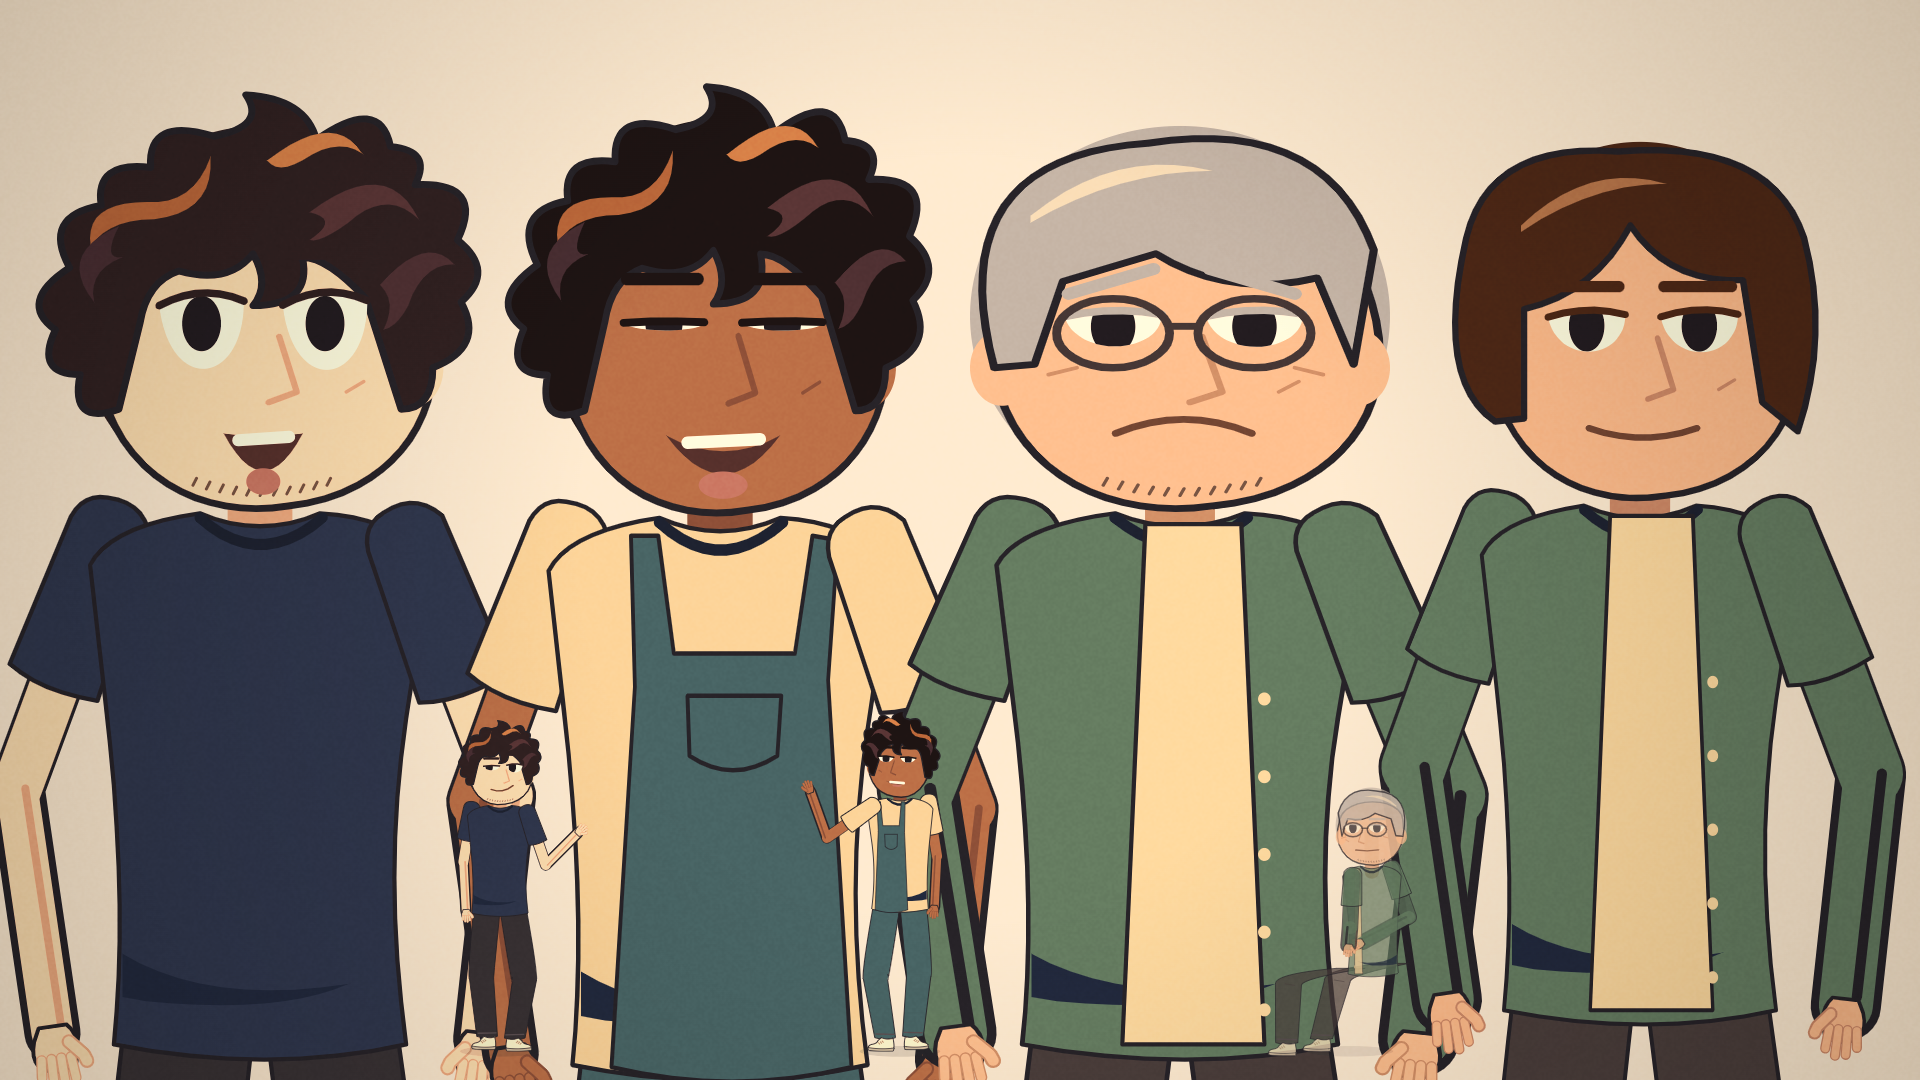
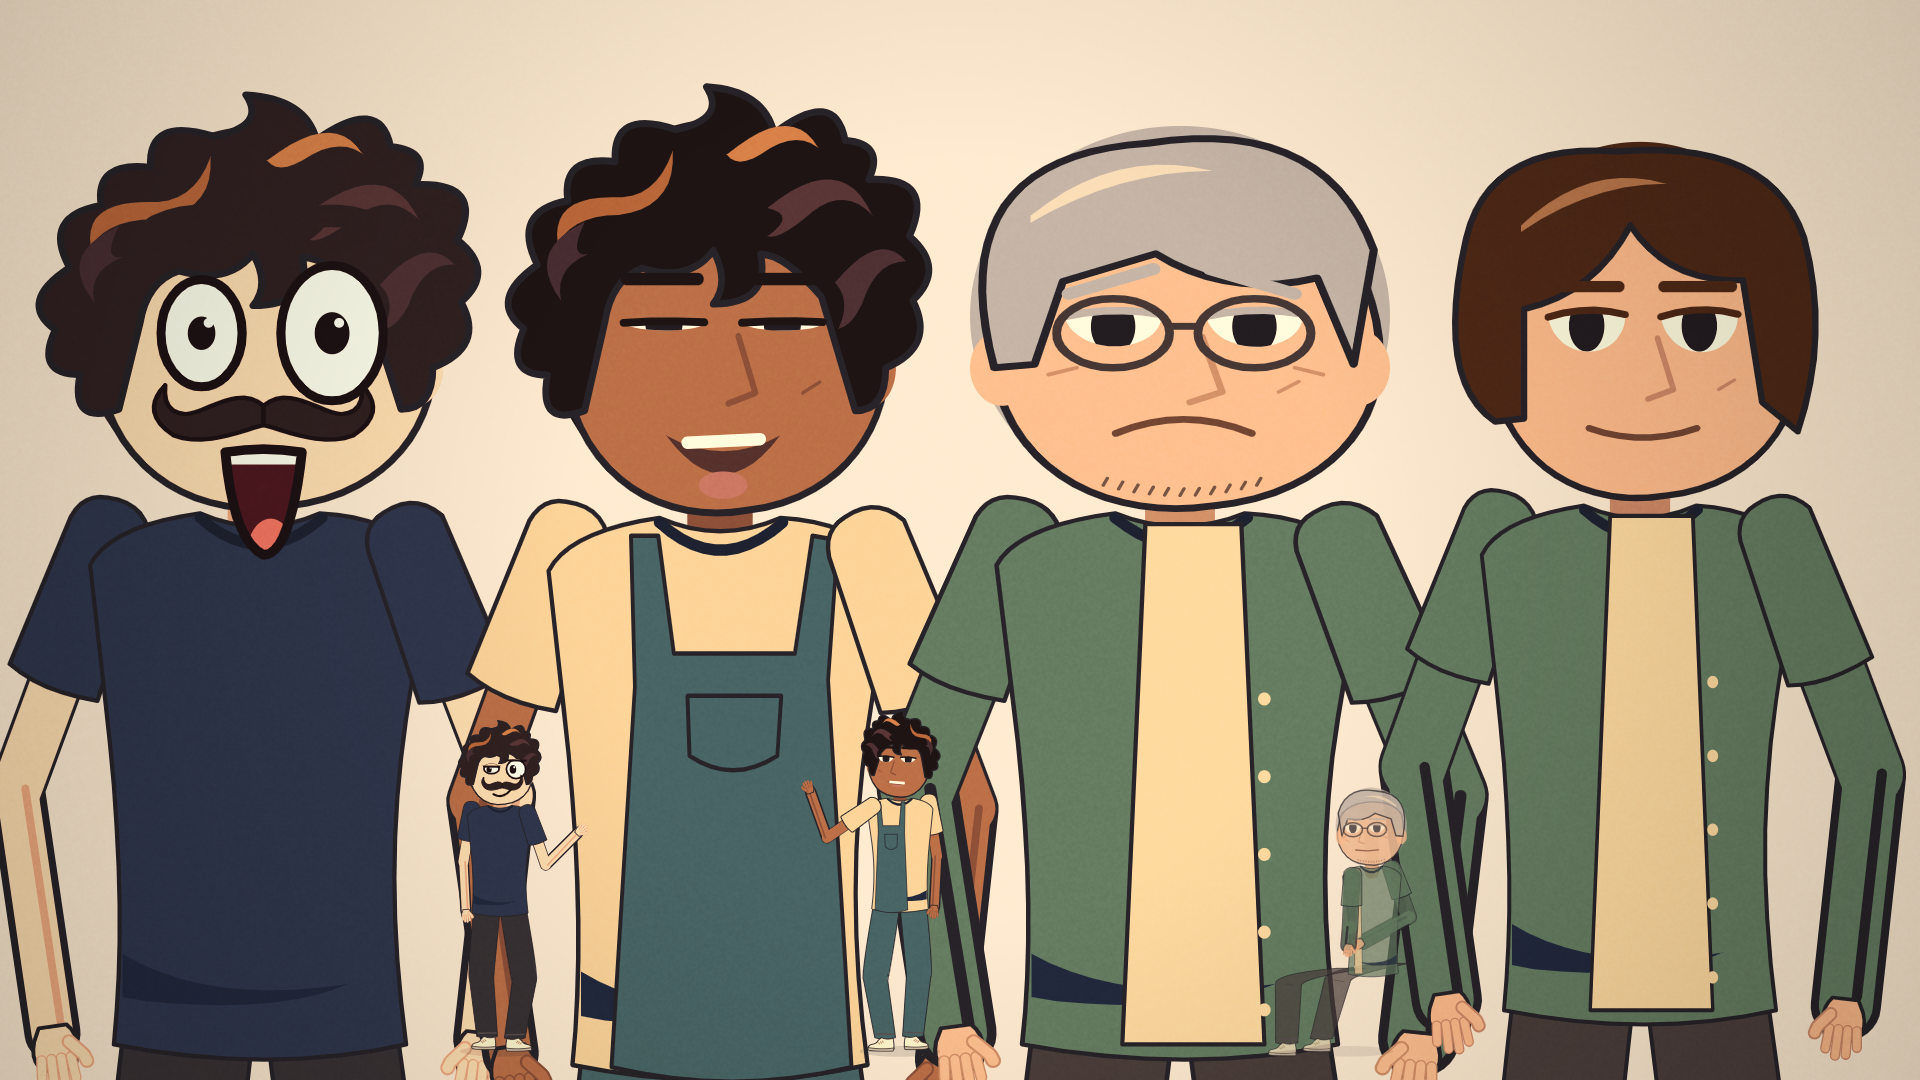
Hero uses the MOOCH meme face (user pick)

diff --git a/growkaz/engine/toon2d.js b/growkaz/engine/toon2d.js
@@ -14,7 +14,7 @@ export { ACTIONS, EMOTION_NAMES } from '/engine/char19.js';
 const classic = (o, c) => (o.rig || c.rig || E.cfg.cast) === 'classic';
 
 // ---------- cast presets ----------
-export const HERO = { c19: ['lead', 'original'], skin: '#f6d6bd', hair: 'curly', hairColor: '#3a2418', top: '#4a78b8', topDark: '#33598f', collar: '#2f5286', sleeves: 'rolled',
+export const HERO = { c19: ['lead_mooch', 'original'], skin: '#f6d6bd', hair: 'curly', hairColor: '#3a2418', top: '#4a78b8', topDark: '#33598f', collar: '#2f5286', sleeves: 'rolled',
                       legs: '#b8a07a', shoes: '#f4f4f4', stache: 'curl', beard: 'goatee', eyes: 'dark', belt: '#2a2033' };
 export const CASHIER = { c19: ['tess', 'uniform'], skin: '#d6a074', hair: 'ponytail', hairColor: '#2a1d18', top: '#e8e2d0', topDark: '#c8c0a8', apron: '#2f8a57', cap: '#2f8a57', legs: '#3a3f52', shoes: '#2a2a33', eyes: 'dark', lashes: true };
 export const STRANGER = { c19: ['ines', 'blazer'], skin: '#f1c8a0', hair: 'swoop', hairColor: '#7a4a2a', top: '#8a5cc8', topDark: '#6a42a0', legs: '#2e3344', shoes: '#e8e8f0', eyes: 'dark' };

diff --git a/growkaz/engine/char19.js b/growkaz/engine/char19.js
@@ -24,7 +24,7 @@ for (const [k, face] of Object.entries(MEME_FACES)) Cast.people['lead_' + k] = [
 export const ACTIONS = [...R.POSE_NAMES, 'conceal'];
 export const EMOTION_NAMES = Object.keys(R.EMOTIONS);
 export const PEOPLE = Cast.people, OUTFITS = Cast.outfits;
-export const rigFor = (cast) => { const [person, outfit] = cast?.c19 || ['lead', 'original']; return Cast.rig(person, outfit); };
+export const rigFor = (cast) => { const [person, outfit] = cast?.c19 || ['lead_mooch', 'original']; return Cast.rig(person, outfit); };
 
 const FIT = 0.365;                       // rig units -> our figure units (a standing figure is ~270 tall at s = 1)
 const FACE_R = 88, HEAD_Y = 636;         // rig head radius and head height above the ground

diff --git a/growkaz/README.md b/growkaz/README.md
@@ -80,7 +80,7 @@ Our patches live HERE and are copied over the studio: `engine/toon2d.js`, `engin
 - Cast ids: HERO=lead, SAM=sam, DAD=dad, YOUNG_DAD=youngdad, MOM=mom, KID=kid, ROOMMATE=ivo, STRANGER=ines, CASHIER=tess, SHOPPER(i). Others: niko, omar, mara, leon, june, alma. Outfits: original, workwear, blazer, cardigan, marine, uniform.
 - Old per-cast colours (top, skin...) and `rim` are ignored by the new rig. `bigToonFace` shows the body below the head; pass `clip: true` for small portraits.
 - Old round-head cast on request: `rig: 'classic'` (call or cast) or `"cast": "classic"` in config.json (use it when re-rendering a finished old video so characters stay consistent).
-- Hero meme faces (2026-11-25, original designs, NOT default until the user picks): `engine/memefaces.js`, use `{ ...HERO, c19: ['lead_mooch' | 'lead_popbrow' | 'lead_gaptooth', 'original'] }`; they use the same 46 emotions. Needs the one-line `look.face` hook in `cast19/rig.js` (re-add it after re-copying rig.js). Pictures `docs/HERO_FACES_*.png`.
+- **Hero face = MOOCH (user picked it 2026-11-25)**: HERO uses `c19: ['lead_mooch','original']`; the moustache acts with the mood. Other meme faces kept as options: `engine/memefaces.js`, use `{ ...HERO, c19: ['lead_mooch' | 'lead_popbrow' | 'lead_gaptooth', 'original'] }`; they use the same 46 emotions. Needs the one-line `look.face` hook in `cast19/rig.js` (re-add it after re-copying rig.js). Pictures `docs/HERO_FACES_*.png`.
 - QC gallery: `example-lab-cast`. Riverside world from the reference kit is NOT ported.
 
 ## SHORTS / REELS 9:16 in this engine (V02 Short 2, 2026-11-22) - example `example-v02-short2`
